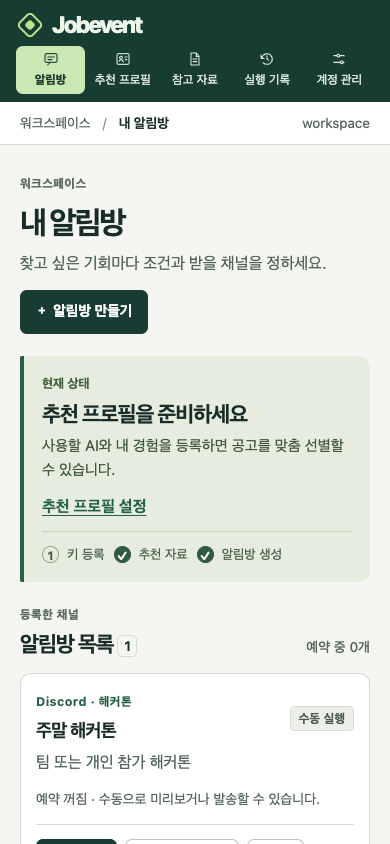
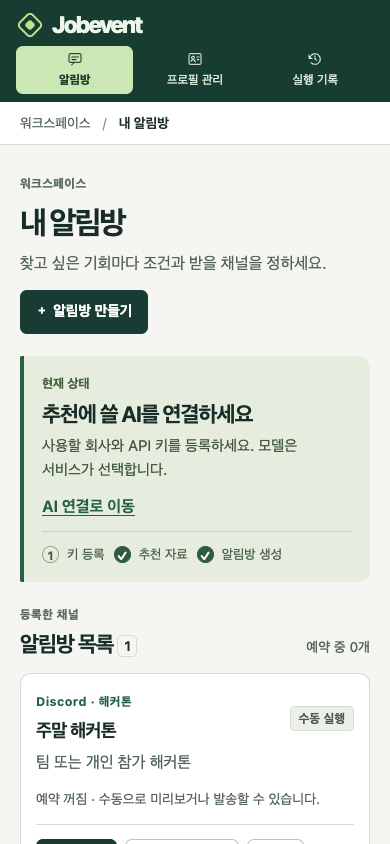
docs: 설치·보안·기여 문서를 로컬 설치 기준으로 개편 (#43)

diff --git a/docs/product-spec.md b/docs/product-spec.md
@@ -1,39 +1,41 @@
-# Jobevent 공개 베타 제품 명세
+# Jobevent 제품 명세
 
 ## 대상과 핵심 결과
 
-운영·개발자는 두 명이고, 이용자는 초대나 개발 권한 없이 가입하는 구직자·학생·활동 지원자다. 성공의 단위는 추천 글자 수나 설치 수가 아니라 **한 이용자가 확인할 가치가 있는 신규 공고를 원하는 방과 시간에 받는 것**이다. 자동 지원, 이력서 대필, 채용 자격 보증, 고객 정보 수집은 하지 않는다.
+이용자는 GitHub에서 직접 설치해 쓰는 개발 직군 대학생·개발자다. 유지보수자는 두 명이고 서버를 운영하지 않는다. 성공의 단위는 설치 수나 추천 글자 수가 아니라 **한 이용자가 확인할 가치가 있는 신규 공고를 원하는 방과 시간에 받는 것**이다. 다루는 기회는 채용·인턴·동아리·공모전·해커톤·교육·장학·오픈소스와 직접 정의다. 차별점은 셀프 실행, 이용자 키(BYOK), 목적별 알림방, 팀 채널 전달의 조합이다. 자동 지원, 이력서 대필, 채용 자격 보증, 이용자 정보 수집은 하지 않는다. 소개에 '취업추천·취업지원' 표현을 쓰지 않는다.
 
 ## 결정 기록
 
-| 결정 | Jobevent에서 이 선택이 맞는 이유 | 기각한 대안 / 전환 조건 |
+2026-11-26 두 유지보수자 논의(#19~#33)에서 공개 호스팅 서비스를 접고 로컬 설치형 오픈소스로 전환했다. 각 결정의 근거와 기각한 선택지는 해당 논의 이슈의 `논의 결과`에 있다. 작업 방식(#33)은 영역별 고정 담당 없이 이슈마다 Assignee를 정하고 마일스톤으로 관리하며, 주 1회 열린 이슈와 PR을 확인한다.
+
+| 결정 | 이유 | 기각한 대안 / 다시 논의할 조건 |
 |---|---|---|
-| 반응형 웹 + 홈 화면 설치(PWA) | 입력은 가입·초기 프로필·간헐적 방 편집에 집중되고 결과는 이미 쓰는 Discord/Slack에서 소비한다. 설치 없이 가입하고 PC·폰에서 같은 설정을 본다. | 모바일 단독 스케줄러는 백그라운드 실행 시점을 통제할 수 없다. 네이티브 앱은 앱에서만 해결 가능한 작업(공고 저장·공유 확장·직접 푸시)이 반복 확인된 후 검토한다. |
-| OCI 상주 워커, 가입 링크만 Vercel | 이미 운영하는 서버에서 브라우저/휴대폰과 무관하게 예약을 돌릴 수 있다. Vercel은 가입 경로만 리디렉션해 자격 증명을 처리하지 않는다. | 모든 요청을 서버리스로 옮겨도 예약·데이터 저장은 따로 필요하다. 단일 장애점은 수용하되 복구 경로와 백업을 먼저 검증한다. |
-| Django 세션 + 회원별 SQLite, 파일 잠금 | 개발자 두 명이 인증·CSRF·비밀번호 해시를 직접 구현하지 않는다. 한 노드의 웹/워커가 같은 볼륨을 사용하므로 별도 DB·브로커 없이 방별 중복 확인이 가능하다. | 수평 확장이 필요하면 파일 잠금을 네트워크 디스크에 옮기지 않는다. PostgreSQL 트랜잭션, 작업 임대와 전송 이력을 먼저 설계한다. |
-| 제공 회사 선택 + 모델 자동 배정 | 사용자에게 모델 ID를 입력시키지 않는다. 선택한 회사에만 해당 키를 보내고, 검색과 개인 자료 기반 선별을 분리한다. | 다른 회사로 자동 폴백하지 않는다. 회사 변경 시 새 키가 필요하다. 메타데이터 없는 생성 링크는 보내지 않는다. |
-| 출처를 선택하는 방 | 특정 회사는 Greenhouse/Lever 공개 원본이 검색보다 싸고 범위가 명확하다. 동아리·대회는 공통 공식 API가 확인되지 않아 출처 링크가 있는 검색을 쓴다. | 전체 웹을 무차별 크롤링하지 않는다. 새 소스는 공개 가능 범위·마감 의미·오류/빈 목록 구별·원문 링크를 확인해야 채택한다. |
-| 사용자 키·원문 보관 최소화 | 서버에서 예약을 실행하려면 키에 접근해야 한다. 암호화는 DB 단독 유출을 완화하지만 운영자로부터 데이터를 숨기지는 못한다. | 본문 없이 회원별 오류·건수 위주로 기록한다. 모든 프롬프트/이력서를 분석 로그에 쌓지 않는다. |
-| 매일/요일별 현지 시각, 방별 소량 발송 | 지원 기회는 분 단위 시세가 아니다. 사용자가 검색비와 알림 피로도를 통제할 수 있게 한 번에 1~8건만 전달한다. | 초단위 cron, 불확실한 실패 시 무제한 재전송은 제외한다. 예약 시각은 시작 목표이지 외부 서비스까지의 정시 도착 보장이 아니다. |
+| 이용자 PC에서 실행하는 로컬 앱(127.0.0.1 웹 화면) + Discord·Slack 전달 (#21) | 서버 운영·개인정보·법적 책임을 지지 않는다. 설정은 가끔, 결과 확인은 이미 쓰는 메신저에서 한다. | 공개 웹(PWA), 모바일·데스크톱 앱, 웹 푸시, 메신저 봇만. 예약은 PC와 프로세스가 켜져 있을 때만 실행된다. |
+| 회원가입·로그인·연령 확인 없음 (#24, #25) | 단일 사용자 앱이라 계정과 복구 대상이 없다. 같은 기기만 쓰도록 Host·Origin을 검사한다. 제공 회사 약관(예: Gemini 만 18세 이상) 준수는 이용자 책임으로 README에 적는다. | 아이디·비밀번호, Discord 로그인, passkey, 초대제. 백업은 `~/.jobevent` 폴더 복사로 안내한다. |
+| BYOK, 키·웹훅은 OS 자격 증명 저장소 (#22, #23) | 키가 기기를 떠나지 않으면서 예약 실행이 가능하다. 대상이 개발 직군이라 웹훅 붙여넣기 안내로 충분하다. | 서버 암호화 보관, 브라우저 보관, OpenRouter OAuth, 운영자 키 체험, Discord·Slack OAuth, Telegram·이메일·카카오. 요청이 생기면 새 이슈. |
+| 제공 회사 선택 + 모델 자동 배정 | 모델 ID를 입력시키지 않는다. 선택한 회사에만 해당 키를 보내고, 공개 조건 검색과 개인 자료 기반 선별을 분리한다. | 다른 회사로 자동 폴백하지 않는다. 회사를 바꾸면 새 키가 필요하다. |
+| 출처: 제공 회사 웹 검색 + Greenhouse·Lever 공개 보드 (#27) | 인용된 원문 링크만 후보로 쓴다. 회사 보드는 검색보다 싸고 범위가 명확하다. | 사이트별 수집기(데이터베이스권 위험), 국내 공식 API(사업자 키라 배포 불가), Dev-Event(라이선스가 금지). |
+| 자료 원문은 로컬 SQLite, 공고 알림에 `[AI 추천]` 표시 (#26) | 이용자가 자기 키로 자기가 고른 회사에 직접 보내므로 유지보수자는 처리자가 아니다. 채널 멤버는 AI 추천임을 알아야 한다. | 요약만 저장, 처리방침·국외 이전 동의 게시. 유지보수자가 데이터를 받는 기능을 만들면 다시 논의한다. |
+| 직업정보제공사업 신고·질의 안 함 (#20) | 유지보수자는 공고를 모으거나 제공하는 서버 없이 MIT 소프트웨어를 배포한다. 법률 자문 결과가 아니다. | 공고를 모아 다른 사람에게 전달하는 호스팅을 다시 하면 새 논의 이슈에서 정한다. |
+| 표준 라이브러리 HTTP 서버, SQLite, keyring, filelock, 빌드 없는 HTML/JS (#31) | 단일 이용자·단일 기기라 수평 확장과 회원 격리가 필요 없다. 의존성이 적을수록 설치 실패와 보안 갱신 부담이 준다. | Django, PostgreSQL·작업 큐, React. |
+| MIT, GitHub 태그 설치, 서버·비용·수익화 없음 (#29, #30, #32) | 이용자가 저장소를 보고 설치하는 경로와 같고 PyPI 계정 관리가 필요 없다. 운영 서버가 없어 운영 키 공유와 장애 대응 분담도 필요 없다. 장애는 릴리스 버그로 보고 버그 이슈와 비공개 보안 신고로 받는다. AI 사용료는 이용자 키로 부담한다. | PyPI 배포, 정식 도메인, 운영 권한 분담, 후원·유료 플랜·스폰서 공고. |
+| 추천 품질은 변경 시 수동 판정 (#28) | 사용 데이터를 밖으로 보내지 않는다. 프롬프트·모델·출처를 바꾸는 PR과 릴리스에서 바뀐 분류마다 10건을 판정한다. | 메시지별 피드백 링크(추적 서버 필요), 매주 정기 판정. |
+| 매일/요일별 현지 시각, 방별 소량 발송 | 지원 기회는 분 단위 시세가 아니다. 검색비와 알림 피로를 이용자가 통제하도록 한 번에 1~8건만 보낸다. | 초 단위 예약, 불확실한 실패의 무제한 재전송. 예약 시각은 시작 목표이지 정시 도착 보장이 아니다. |
 
-## 베타 사용 흐름과 합격 조건
+## 사용 흐름과 합격 조건
 
-1. 비회원은 키·프로필을 볼 수 없다. 가입 뒤 키 없이 화면과 설정을 탐색할 수 있다. 한 계정의 방 ID를 알아도 다른 계정에서는 조회·수정·발송할 수 없다.
-2. PDF·텍스트·지원되는 공개 링크를 가져와 내용을 확인하고 편집한 뒤 저장한다. 프로필은 공개 검색어로 전송하지 않는다. 키·웹훅을 대시보드에 복원하지 않는다.
+1. `uv tool install`로 설치하고 `jobevent`를 실행하면 브라우저에서 바로 알림방 화면이 열린다. 키 없이도 화면과 설정을 탐색하고 자료를 저장할 수 있다. 다른 출처의 웹페이지는 설정을 읽거나 바꿀 수 없다.
+2. PDF·텍스트·지원되는 공개 링크를 가져와 내용을 확인·편집한 뒤 저장한다. 자료는 공개 검색어로 전송하지 않는다. 키·웹훅을 화면에 돌려주지 않는다.
 3. 템플릿은 방 초깃값일 뿐이다. 예컨대 월~금 09:00 채용 알림과 토요일 14:00 공모전 알림은 목적지·말투·실행 시각·최대 건수가 독립적이어야 한다.
-4. 미리보기는 발송·소진 이력이 없다. 실제 전송은 사전 인용/수집된 URL로 제한하고 알려진 지난 마감은 제외한다. 중복은 같은 방 기준으로 판단한다. 검색·추천·전송 실패와 신규 결과 없음은 구분한다.
-5. 브라우저를 닫거나 로그아웃해도 활성 예약은 계속된다. 재시작 후 밀린 실행을 모두 재생해 과금하지 않는다. 계정 탈퇴 뒤에는 예약·키·회원별 저장소가 남지 않는다.
-6. 휴대폰에서 계정 생성·방 설정이 가능해야 한다. 별도 네이티브 앱에 서버 키를 내려주지 않는다. 오프라인에서는 안내만 표시하고 프로필·추천을 캐시하지 않는다.
+4. 미리보기는 발송·소진 이력이 없다. 실제 전송은 인용·수집된 URL로 제한하고 알려진 지난 마감은 제외한다. 중복은 같은 방 기준으로 판단한다. 검색·추천·전송 실패와 신규 결과 없음은 구분한다.
+5. 프로세스가 실행 중이면 브라우저를 닫아도 예약이 계속된다. 꺼져 있던 동안 놓친 예약은 다음 실행 때 방마다 한 번만 처리하고 밀린 회차를 모두 재생해 과금하지 않는다. 방을 삭제하면 그 방의 웹훅과 기록이 남지 않는다.
 
-## 한도와 다음 투자 판단
-
-100계정, 계정당 12방은 **측정된 수용량이 아니라 작은 공유 서버를 보호하는 베타 상한**이다. 100명이 12개 방을 모두 같은 시각에 예약하면 1,200회가 몰릴 수 있다. 예를 들어 방 하나당 5초라고 가정해도 단일 워커로 100분이다. 이 값은 가정이며 실제 처리량이 아니다. 정원을 늘리기 전에 예약 집중도, 모델 응답 대기, 실행 지연을 합성 부하로 측정한다.
+## 다음 투자 판단
 
 | 다음 결정 | 앞으로 수집할 근거 | 행동 |
 |---|---|---|
-| 검색 개선 vs. 소스 추가 | 채용·동아리·대회별로 표본을 나눠 원문이 열리는지, 실제 접수 중인지, 사용자가 지원 가능한지 사람이 독립 판정. URL이 없는 결과는 실패로 센다. | 한 분류에서 반복 오탐이면 모델 교체 전에 해당 소스·필터부터 수정한다. 아직 정확도 수치는 발표하지 않는다. |
-| 병렬 워커/DB 전환 | 같은 시각에 활성 방 10·50·100개를 예약한 합성 시험에서 예약→시작 지연 p95와 중복·누락을 확인한다. 최초 운영 검토선은 10분이며 고객에게 제시한 SLA가 아니다. | 지연의 원인이 검색 대기면 제한된 작업 동시성부터, 잠금/다중 노드라면 DB·큐 전환을 검토한다. |
-| 모바일 앱 투자 | 모바일 가입자가 키 등록→첫 미리보기를 완료하지 못하는 단계와 이유를 실제 사용자에게 확인한다. 첫 실기기 검증은 iOS Safari·Android Chrome 각 1대에서 파일 업로드/설치/재로그인. | 키 발급·웹훅 설정이 문제면 앱을 새로 만드는 대신 온보딩을 고친다. 직접 푸시 수요가 확인되면 푸시 어댑터부터 검증한다. |
-| 회원 확대 | 계정 복구·운영 문의, DB·키 백업 복원, 비용과 오류 고지, 삭제 동작을 점검한다. | 확인 없이 사용자 한도부터 풀지 않는다. 자료 수집이나 분석 SDK는 이용자 고지 없이 추가하지 않는다. |
+| 검색 개선 vs. 소스 추가 | 변경 PR·릴리스마다 바뀐 분류별 10건의 원문 열림·접수 중·지원 가능 판정. URL이 없는 결과는 실패로 센다. | 한 분류에서 반복 오탐이면 모델 교체 전에 해당 소스·필터부터 고친다. 수치가 쌓이기 전에는 정확도를 발표하지 않는다. |
+| 설치 경험 | 첫 이용자들이 설치, 키 발급, 웹훅 연결 중 어디서 멈추는지 이슈로 확인한다. | 패키징을 새로 만들기 전에 README와 화면 안내부터 고친다. |
+| 새 채널·로그인·OAuth | 실제 이용자의 반복 요청. | 공용 앱 등록이나 운영자 비밀값이 필요한 기능은 새 논의 이슈에서 정한다. |
 
-설치 가능한 웹과 네이티브 앱은 다르다. 현재 배포는 PWA와 Discord/Slack 전송이며 앱스토어 출시, 자체 푸시, 실기기 호환 인증을 의미하지 않는다. 플랫폼 선택의 공식 근거와 유사 사례는 [설계 조사](design.md)를 참고한다.
+플랫폼 선택의 공식 근거와 유사 사례는 [설계 조사](design.md)를 참고한다. 이 조사는 호스팅 서비스 시절의 기록이며 현재 결정은 위 표가 우선한다.

diff --git a/README.md b/README.md
@@ -1,20 +1,33 @@
 # Jobevent
 
-**공고를 찾는 시간은 줄이고, 지원할지 결정하는 데 집중하세요.** Jobevent는 가입자가 자기 AI 키와 프로필을 등록하면, 조건에 맞는 모집 공고를 찾아 본인의 Discord·Slack 채널로 보내는 웹 서비스입니다. 개발자와 서비스 이용자는 별개입니다. 이용자는 GitHub 계정이나 앱 설치가 필요 없습니다.
+**내 PC에서 내 AI 키로 돌리는, 목적별 공고 알림방 오픈소스.** 채용·인턴·동아리·공모전·해커톤처럼 받고 싶은 기회마다 알림방을 만들면, 내가 정한 요일과 시각에 Jobevent가 공고를 찾아 고른 뒤 Discord·Slack 채널로 보냅니다. 서버나 회원가입이 없고, 데이터와 키는 설치한 PC에만 저장됩니다.
 
-**[서비스 시작하기](https://jobevent.vercel.app)** · [제품 명세와 모바일 확장 기준](docs/product-spec.md)
+```sh
+uv tool install git+https://github.com/ghdtjdwn/jobevent@v0.2.0
+jobevent
+```
 
-휴대폰 브라우저에서도 가입하고 홈 화면에 추가할 수 있습니다. Vercel은 시작 링크이고, 실제 회원가입·키 입력은 연결된 HTTPS 서비스에서 처리합니다.
+![Jobevent 알림방 화면](docs/studio.png)
 
-![Jobevent 대시보드](docs/studio.png)
+## 설치와 실행
+
+GitHub에서 직접 설치해 쓰는 개발자·개발 직군 학생을 대상으로 합니다. [uv](https://docs.astral.sh/uv/getting-started/installation/)가 필요하며, Python 3.11 이상이 없으면 uv가 설치 중에 받아 옵니다.
+
+1. 위의 `uv tool install` 명령으로 설치합니다. 태그는 [릴리스 목록](https://github.com/ghdtjdwn/jobevent/releases)에서 고릅니다.
+2. `jobevent`를 실행하면 브라우저에서 `http://127.0.0.1:8765`가 열립니다. 브라우저를 열지 않으려면 `jobevent --no-browser`, 포트를 바꾸려면 `--port 8766`을 씁니다.
+3. 업데이트는 같은 명령을 새 태그로 다시 실행합니다(`uv tool install git+https://github.com/ghdtjdwn/jobevent@<새 태그>`). 프로그램 삭제는 `uv tool uninstall jobevent`이며, 저장한 자료·키·웹훅은 남으므로 [데이터 삭제 방법](SECURITY.md)을 따라 먼저 지우세요.
+
+화면은 이 PC(127.0.0.1)에서만 열립니다. 같은 PC에서 두 번 실행할 수 없습니다.
+
+**예약은 PC가 켜져 있고 `jobevent` 프로세스가 실행 중일 때만 동작합니다.** 터미널을 닫으면 멈추고, PC가 꺼져 있거나 잠자기 상태인 동안에는 보내지 않습니다. 꺼져 있는 동안 지난 예약은 다음 실행 때 방마다 한 번만 처리하고 밀린 회차를 모두 다시 실행하지 않습니다.
 
 ## 처음 쓰기
 
-1. 서비스의 **회원가입**에서 아이디와 비밀번호를 정합니다. 이메일은 수집하지 않습니다. 비밀번호 관리자에 저장하세요.
-2. **프로필 관리** 한 화면에서 AI 연결, 내 자료, 내 공개 링크를 관리합니다. AI 연결에서는 회사(OpenAI·Google Gemini·Anthropic Claude)와 키만 등록하고 모델은 서비스가 지정합니다. 이력서는 **내 자료**에 파일(PDF·TXT·MD)이나 글로 저장하고, GitHub·자기소개 사이트는 **내 공개 링크**에 한 번만 저장하세요. 링크 본문을 직접 작성하거나 가져와서 확인·수정할 수 있고 자동으로 다시 읽지 않습니다. 별도 자기소개는 필요 없습니다.
-3. **알림방 만들기**에서 채용, 인턴, 동아리·연합, 공모전, 해커톤, 교육, 장학·펠로십, 오픈소스 또는 직접 정의를 선택합니다. 검색해도 되는 조건과 비공개 선별 기준을 구분하세요. 방마다 모든 자료(앞으로 추가할 자료 포함) 또는 직접 고른 자료만 쓰고, 공개 링크 포함 여부도 별도로 설정할 수 있습니다.
-4. 원하는 채널의 웹훅을 입력합니다. [Discord](https://support.discord.com/hc/en-us/articles/228383668-Intro-to-Webhooks)는 서버 설정 → 연동 → 웹후크, [Slack](https://docs.slack.dev/messaging/sending-messages-using-incoming-webhooks/)은 앱 → Incoming Webhooks → 워크스페이스에 추가 → 채널 선택에서 발급합니다.
-5. 말투, 시간대, 요일, 현지 시각, 최대 건수를 정하고 저장합니다. **채널 연결 확인**은 AI를 호출하지 않고 고정된 확인 메시지 한 건만 보냅니다. **미리보기**는 검색·추천까지만 합니다. 15분 안에 **이 결과 그대로 발송**을 누르면 추가 검색 비용 없이 확인한 목록에서 아직 마감되지 않은 미발송 항목만 보냅니다. **새로 검색해 발송**은 별도의 유료 검색입니다. 예약은 별도로 켭니다. 브라우저와 사용자 PC를 꺼도 운영 서버의 워커가 실행됩니다.
+1. **프로필 관리 → AI 연결**에서 회사(OpenAI·Google Gemini·Anthropic Claude)를 고르고 API 키를 등록합니다. 모델은 Jobevent가 정합니다.
+2. **내 자료**에 이력서를 파일(텍스트 PDF·TXT·MD, 4MB·40쪽 이하)이나 글로 저장합니다. GitHub 사용자 주소나 GitHub Pages·Vercel·Notion 기본 주소의 자기소개 사이트는 **내 공개 링크**에 한 번 저장합니다. 링크 본문은 가져와서 확인·수정하며 자동으로 다시 읽지 않습니다.
+3. **알림방 만들기**에서 채용, 인턴, 동아리·연합, 공모전, 해커톤, 교육, 장학·펠로십, 오픈소스 또는 직접 정의를 고릅니다. 검색에 써도 되는 조건과 비공개 선별 기준을 나눠 적고, 방에서 쓸 자료와 공개 링크 포함 여부를 정합니다.
+4. 받을 채널의 웹훅을 입력합니다. [Discord](https://support.discord.com/hc/en-us/articles/228383668-Intro-to-Webhooks)는 서버 설정 → 연동 → 웹후크, [Slack](https://docs.slack.dev/messaging/sending-messages-using-incoming-webhooks/)은 앱 → Incoming Webhooks → 워크스페이스에 추가 → 채널 선택에서 발급합니다.
+5. 말투, 시간대, 요일, 현지 시각, 최대 건수를 정해 저장합니다. **채널 연결 확인**은 AI를 호출하지 않고 고정 메시지 한 건만 보냅니다. **미리보기**는 검색·추천까지만 하고, 15분 안에 **이 결과 그대로 발송**을 누르면 추가 비용 없이 그 목록에서 마감되지 않은 미발송 항목만 보냅니다. **새로 검색해 발송**은 별도의 유료 검색입니다. 예약은 방마다 따로 켭니다.
 
 예: 평일 오전 9시엔 Slack에 서울 백엔드 인턴 3건을 짧은 존댓말로, 토요일 오후 2시엔 Discord에 대학생 해커톤 2건을 친근한 말투로 받을 수 있습니다. 두 방의 발송 이력은 서로 독립적입니다.
 
@@ -26,24 +39,33 @@
 | [Greenhouse](https://docs.greenhouse.io/job-board.html) | 지정한 회사의 현재 공개 보드 | 보드 식별자 필요. 최근 갱신 순 최대 50개 후보 |
 | [Lever](https://github.com/lever/postings-api) / EU | 지정한 회사의 공개 채용 목록 | 회사 식별자·리전 필요. 최대 50개 후보 |
 
-웹 검색과 추천은 사용자 API 요금이 발생할 수 있습니다. 회사 보드 모드는 웹 검색 비용 없이 추천 모델만 호출합니다. 방별 최대 건수는 **발송량 제한**이지 금액 상한이 아닙니다. AI의 추천은 합격·자격·마감 보증이 아닙니다. 인증형 국내 공공 API와 근거 없는 생성 링크를 기본 소스로 넣지 않았습니다.
+사이트를 직접 수집하지 않고, 인증이 필요한 국내 API나 근거 없는 생성 링크도 쓰지 않습니다. 채널에 보내는 공고 알림에는 `[AI 추천]`이 붙습니다. AI의 추천은 합격·자격·마감 보증이 아니므로 지원 전에 원문을 확인하세요.
 
-## 데이터와 실행 구조
+## 비용과 AI 제공 회사 약관
 
-브라우저 → Django 세션/CSRF → 회원별 저장소 → 수집 → 도구 없는 맞춤 추천 → 방별 중복 확인 → 웹훅. 같은 데이터에 접근하는 웹과 워커는 회원별 잠금을 공유합니다. 검색에는 공개 검색어만 보내고 AI 키·웹훅을 브라우저로 돌려주지 않습니다. 프로필은 추천 시 선택한 제공 회사의 모델로 전송되며 추천 문구는 채널에서 보입니다. [개인정보·보안 경계](SECURITY.md)를 확인하세요.
+- 웹 검색과 추천은 내 키로 호출하므로 제공 회사 요금이 내 계정에 청구됩니다. 회사 보드 방식은 웹 검색 없이 추천 모델만 호출합니다. 방별 최대 건수는 발송량 제한이지 금액 상한이 아닙니다.
+- 제공 회사마다 **Jobevent 전용 프로젝트, 월 지출 한도, 전용 키**를 만들어 쓰기를 권장합니다. 키가 새도 피해가 그 한도 안에 머뭅니다: [OpenAI 지출 한도](https://developers.openai.com/api/docs/guides/spend-limits) · [Anthropic 워크스페이스](https://platform.claude.com/docs/en/manage-claude/workspaces) · [Gemini 결제와 지출 상한](https://ai.google.dev/gemini-api/docs/billing)
+- 제공 회사의 약관을 지킬 책임은 이용자에게 있습니다. 예를 들어 [Gemini API 약관](https://aistudio.google.com/docs/terms)은 만 18세 이상만 쓸 수 있고 검색 결과의 표시·재배포 조건을 둡니다. 여러 사람이 보는 채널로 검색 결과를 보내기 전에 쓰는 회사의 약관을 확인하세요.
 
-공유 서버에서 직접 가져오는 포트폴리오는 GitHub Pages, Vercel, Notion 기본 서브도메인의 공개 정적 본문입니다. 로그인이나 자바스크립트 렌더링이 필요한 페이지, 커스텀 도메인은 본문 붙여넣기나 파일 업로드를 사용하세요. PDF는 텍스트 기반 4MB·40쪽 이하이며 스캔 OCR은 지원하지 않습니다.
+## 데이터는 어디에 있나요?
 
-## 개발·배포
+| 데이터 | 저장 위치 |
+|---|---|
+| 프로필·자료·공개 링크 본문, 알림방 설정, 실행 기록, 발송한 공고 주소 | `~/.jobevent/jobevent.sqlite3` (암호화하지 않은 SQLite) |
+| AI 키, 웹훅 | OS 자격 증명 저장소(macOS 키체인, Windows 자격 증명 관리자, Linux Secret Service) |
+
+검색에는 방의 공개 조건만 보내고, 추천 단계에는 방에서 고른 자료(연락처·링크 형식은 지움)와 비공개 선별 기준을 내 키로 고른 제공 회사에 보냅니다. 유지보수자에게는 어떤 데이터도 전송되지 않으며 사용 통계도 수집하지 않습니다. 자세한 경계는 [보안과 개인정보](SECURITY.md)를 확인하세요.
+
+**백업:** `jobevent`를 종료한 뒤 `~/.jobevent` 폴더를 복사합니다. 키와 웹훅은 이 폴더에 들어 있지 않으므로, 다른 PC나 다른 경로로 옮기면 다시 입력합니다. Linux에서는 로그인 세션의 Secret Service(GNOME Keyring, KWallet 등)가 있어야 키를 저장할 수 있습니다.
+
+## 개발
 
 ```sh
 git clone https://github.com/ghdtjdwn/jobevent.git
 cd jobevent
 uv sync --locked
-uv run python deploy/dev.py
+uv run jobevent
 ```
 
-개발 환경에서 `http://127.0.0.1:8000/signup`을 엽니다. 공개 서비스는 [Docker Compose + HTTPS 운영 안내](docs/operations.md)를 따르세요. 개인 PC 안에서만 실행하는 별도 모드는 `uv run jobevent`이며, 이때는 OS 자격 증명 저장소를 쓰고 PC가 켜져 있어야 합니다. Linux 로컬 모드는 로그인 세션의 Secret Service가 필요합니다. 공개 서비스 이용자에게는 해당되지 않습니다.
-
-- [화면 설계와 실제 서비스 패턴 비교](DESIGN.md) · [협업 가이드](CONTRIBUTING.md) · [보안 신고](SECURITY.md) · [폼팩터 비교와 유사 사례 8개](docs/design.md)
-- Python 3.11+, Django, SQLite, 독립 워커. MIT License.
+- [협업 가이드](CONTRIBUTING.md) · [보안 신고](SECURITY.md) · [제품 명세와 결정 기록](docs/product-spec.md) · [화면 설계](DESIGN.md) · [폼팩터 비교와 유사 사례 조사](docs/design.md)
+- Python 3.11+, 표준 라이브러리 HTTP 서버, SQLite, keyring, 빌드 없는 HTML/CSS/JS. MIT License.

diff --git a/SECURITY.md b/SECURITY.md
@@ -1,9 +1,15 @@
 # 보안과 개인정보
 
-키·웹훅·이력서·원문 로그를 공개 이슈에 게시하지 마세요. [비공개 보안 신고](https://github.com/ghdtjdwn/jobevent/security/advisories/new)를 사용하세요. 키 유출이 의심되면 발급처에서 키와 웹훅을 폐기하고 다시 등록하세요.
+키·웹훅·이력서·실행 기록 원문을 공개 이슈에 게시하지 마세요. 취약점은 [비공개 보안 신고](https://github.com/ghdtjdwn/jobevent/security/advisories/new)로 알려 주세요. 키나 웹훅이 샜다고 의심되면 발급처에서 폐기하고 새로 등록하세요.
 
-- 공개판은 HTTPS와 신뢰된 리버스 프록시 뒤에서만 운영합니다. 회원별 저장소와 잠금을 분리합니다. 프로필·자격 증명은 서버 암호화 키로 암호화되며, **종단간 암호화는 아닙니다**. 운영자가 실행 중 데이터에 접근할 수 있습니다.
-- 가입 ID, 예약 시각, 발송 중복 확인용 공고 URL 등 운영 메타데이터는 평문일 수 있습니다. 입력할 필요가 없는 개인식별정보나 비공개 회사 자료는 넣지 마세요.
-- 수동/예약 추천에는 사용자의 AI 제공 회사의 API 요금이 발생할 수 있습니다. OpenAI·Gemini 요청에는 저장 비활성 옵션을 보내지만, 각 제공자의 보관·오남용 방지 정책까지 끄는 것은 아닙니다. 웹 검색에는 공개 조건만, 도구 없는 추천 단계에는 프로필과 후보를 보냅니다.
-- 추천 문구는 채널 멤버에게 보입니다. 민감한 자료는 올리지 말고 미리보기와 비공개 채널로 먼저 확인하세요. 계정을 삭제해도 이용자가 받은 외부 메시지나 제공자가 보관하는 기록은 삭제되지 않습니다.
-- 브라우저/DB에 비밀 원문을 반환하거나 요청 본문 로깅, 세션 재생 분석 도구, URL이 담긴 웹훅 오류 로깅을 추가하지 마세요. 백업과 암호화 키를 분리 보관하세요.
+Jobevent는 이용자 PC에서만 실행되는 단일 사용자 앱입니다. 유지보수자는 서버를 운영하지 않으며 이용자의 데이터·키·사용 통계를 받지 않습니다.
+
+- **로컬 저장:** 프로필·자료·공개 링크 본문, 알림방 설정(검색 조건·비공개 선별 기준), 실행 기록, 중복 확인용 발송 공고 주소는 `~/.jobevent/jobevent.sqlite3`에 **암호화하지 않고** 저장합니다. macOS·Linux에서는 폴더와 파일을 소유자만 읽을 수 있게 만듭니다. 같은 OS 계정으로 실행되는 다른 프로그램이나 PC 관리자는 읽을 수 있으므로, OS 로그인 암호와 디스크 암호화(FileVault, BitLocker 등)로 보호하세요.
+- **키와 웹훅:** OS 자격 증명 저장소(macOS 키체인, Windows 자격 증명 관리자, Linux Secret Service)에만 저장하고 SQLite나 브라우저 화면으로 돌려주지 않습니다. 사용할 수 있는 자격 증명 저장소가 없으면 평문으로 대신 저장하지 않고 오류를 냅니다.
+- **로컬 화면:** 127.0.0.1에만 열리고, `Host` 머리글이 다르면 거부합니다. 저장·실행 요청은 같은 출처의 `Origin`, 전용 머리글, JSON 형식을 모두 갖춰야 하므로 다른 웹사이트가 브라우저를 통해 설정을 바꾸거나 발송을 일으킬 수 없습니다. 외부 스크립트를 불러오지 않고 다른 사이트에 끼워 넣을 수 없게 막습니다.
+- **외부 전송:** 웹 검색에는 방의 공개 조건(분류·검색어·기준일)만 보냅니다. 추천 단계에는 방에서 고른 자료(이메일·전화번호·링크 형식은 지움)와 비공개 선별 기준, 후보 공고를 이용자의 키로 이용자가 고른 AI 제공 회사에 보냅니다. OpenAI·Gemini 요청에는 저장 비활성 옵션을 보내지만, 각 회사의 보관·오남용 방지 정책까지 끄는 것은 아닙니다.
+- **공개 링크 가져오기:** 이용자가 누를 때만 이 PC에서 직접 요청합니다. 공개 인터넷 주소의 HTTPS만 허용하고 TLS 인증서를 확인하며, 응답 크기를 제한합니다.
+- **채널 메시지:** 추천 문구는 채널 멤버 모두에게 보이며 `[AI 추천]` 표시가 붙습니다. 민감한 자료는 넣지 말고 비공개 채널과 미리보기로 먼저 확인하세요.
+- **삭제:** 알림방을 삭제하면 그 방의 웹훅과 실행 기록이 지워집니다. **프로필 관리 → 프로필 데이터 전체 삭제**는 키·자료·공개 링크·자기소개를 지우고 모든 예약을 끕니다. 전부 지우려면 방을 모두 삭제하고 프로필 데이터를 전체 삭제한 뒤 `~/.jobevent` 폴더를 지우세요. 이미 보낸 채널 메시지와 AI 제공 회사가 보관한 기록은 지워지지 않습니다.
+
+코드를 바꿀 때는 브라우저·DB에 비밀 원문을 돌려주는 코드, 요청 본문 로깅, URL이 담긴 웹훅 오류 로깅, 사용 통계·세션 재생 같은 외부 전송을 추가하지 마세요.

diff --git a/docs/design.md b/docs/design.md
@@ -2,6 +2,8 @@
 
 조사일: 2026-11-20. 아래의 외부 기능은 공식 문서·운영자 문서에서 확인했다. **적용 방향은 JobEvent를 위한 설계 판단이며, 해당 제품이 JobEvent의 구현이나 보안을 보증한다는 뜻은 아니다.** 이 문서는 구현 완료 목록이 아니다. 실제 지원 범위는 README와 테스트를 따른다.
 
+> 2026-11-26 이후 Jobevent는 호스팅 서비스를 접고 로컬 설치형 앱만 지원한다. 현재 결정은 [제품 명세의 결정 기록](product-spec.md#결정-기록)이 우선하며, 이 문서는 그 전의 조사 기록으로 남긴다.
+
 ## 최종 선택
 
 이 문서의 첫 비교 후 이용 대상이 명확해졌다. 두 명은 **공동 개발자**이고, 가입자는 불특정 다수다. 기본 배포는 설치 없는 **회원제 웹 + 항상 켜진 서버 워커**로 정했다. 사용자별 키·데이터를 서버에서 격리·암호화하고 선택형 로컬 실행만 보조로 유지한다. 현재 수집기는 웹 검색의 인용 링크 및 Greenhouse·Lever 보드다. 아래 표의 RSS·공공 API 등은 조사 후보이지 탑재 목록이 아니다.

diff --git a/.github/PULL_REQUEST_TEMPLATE.md b/.github/PULL_REQUEST_TEMPLATE.md
@@ -14,13 +14,13 @@
 
 ## 리뷰 포인트
 
-<!-- 리뷰어 판단이 필요한 결정과 호환성. DB 마이그레이션, 환경변수, 저장 데이터 형식, 외부 발송, AI 비용이 바뀌면 영향과 배포 순서를 씁니다. -->
+<!-- 리뷰어 판단이 필요한 결정과 호환성. `~/.jobevent` 저장 데이터 형식, 자격 증명 항목 이름, 외부 발송, AI 비용이 바뀌면 이미 설치한 이용자에게 미치는 영향과 릴리스 노트에 적을 내용을 씁니다. -->
 
 ## 검증 결과
 
 <!-- 실행한 검사와 결과를 명사형 목록으로. 실행하지 못한 검사는 `-하지 못했습니다`와 이유. -->
 
-## 운영 영향
+## 이용자 영향
 
-- [ ] 키·웹훅·개인 이력서·운영 로그를 diff, 스크린샷, 본문에 넣지 않았습니다.
+- [ ] 키·웹훅·개인 이력서·실행 기록 원문을 diff, 스크린샷, 본문에 넣지 않았습니다.
 - [ ] DB 변경, 비용, 발송 중복, 복구 경로를 확인했습니다. 해당 없으면 체크합니다.

diff --git a/AGENTS.md b/AGENTS.md
@@ -1,6 +1,6 @@
 # 에이전트 작업 가이드
 
-Python 3.11+, Django, SQLite, 독립 워커로 된 공개 저장소입니다. 사람과 에이전트 모두 [CONTRIBUTING.md](CONTRIBUTING.md)의 브랜치, 커밋, 이슈, PR, 리뷰 규칙을 따릅니다. 이 문서는 에이전트가 자주 어기는 규칙만 요약합니다.
+Python 3.11+, 표준 라이브러리 HTTP 서버, SQLite, keyring으로 된 로컬 설치형 앱의 공개 저장소입니다. 사람과 에이전트 모두 [CONTRIBUTING.md](CONTRIBUTING.md)의 브랜치, 커밋, 이슈, PR, 리뷰 규칙을 따릅니다. 이 문서는 에이전트가 자주 어기는 규칙만 요약합니다.
 
 ## 작업 전
 
